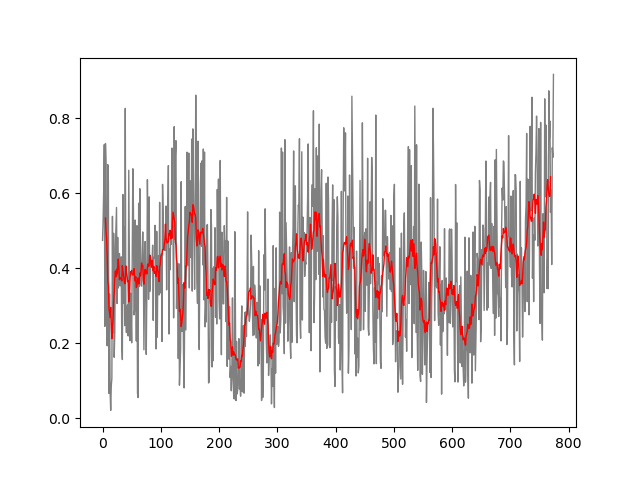
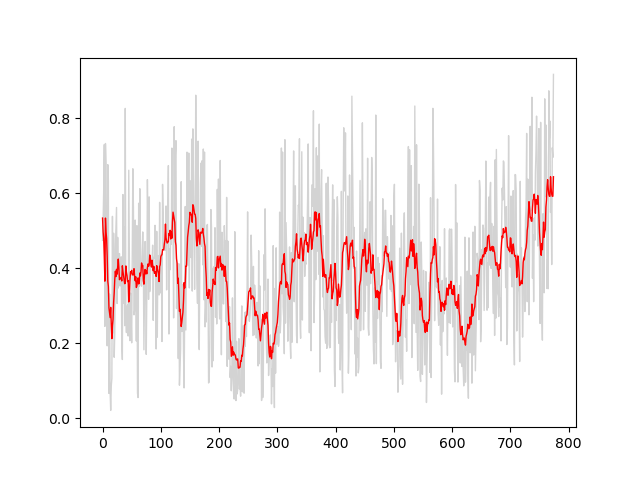
Added cases to process terminals.

Changed region(s): [[0.1562, 0.1875, 0.875, 0.8438]]

diff --git a/thermoclass/results.py b/thermoclass/results.py
@@ -103,19 +103,22 @@ def plot_predictions(predictions_file, seq_key, indeces, sep, output_png, k=0):
 			x_values.append(int(line_arr[indeces[0]]))
 			y_values.append(float(line_arr[indeces[1]]))
 
-	plt.plot(x_values, y_values, linewidth=1, color='grey')
+	plt.plot(x_values, y_values, linewidth=1, color='lightgrey')
 	if(k != 0):
 		x_smoothened_values = []
 		y_smoothened_values = []
 		for i in x_values:
-			if(i-int(k/2) >= 0 and i-int(k/2)+(k-1) < len(x_values)):
-				window = []
-				for j in range(k):
+			window = []
+			for j in range(k):
+				if(i-int(k/2) >= 0 and i-int(k/2)+(k-1) < len(x_values)):
 					window.append(y_values[i-int(k/2)+j])
-				x_smoothened_values.append(x_values[i])
-				y_smoothened_values.append(statistics.mean(window))
+				elif(i-int(k/2) < 0):
+					window.append(y_values[i+j])
+				elif(i-int(k/2)+(k-1) >= 0):
+					window.append(y_values[i-j])
+			y_smoothened_values.append(statistics.mean(window))
 
-	plt.plot(x_smoothened_values, y_smoothened_values, linewidth=1, color='red')
+	plt.plot(x_values, y_smoothened_values, linewidth=1, color='red')
 	plt.savefig(output_png)
 	plt.clf()
 
